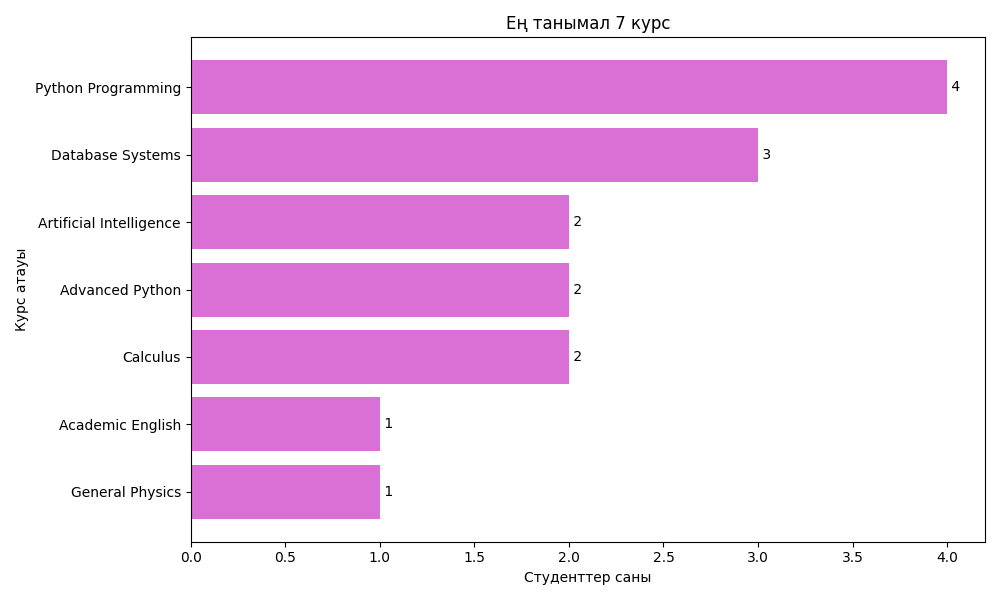
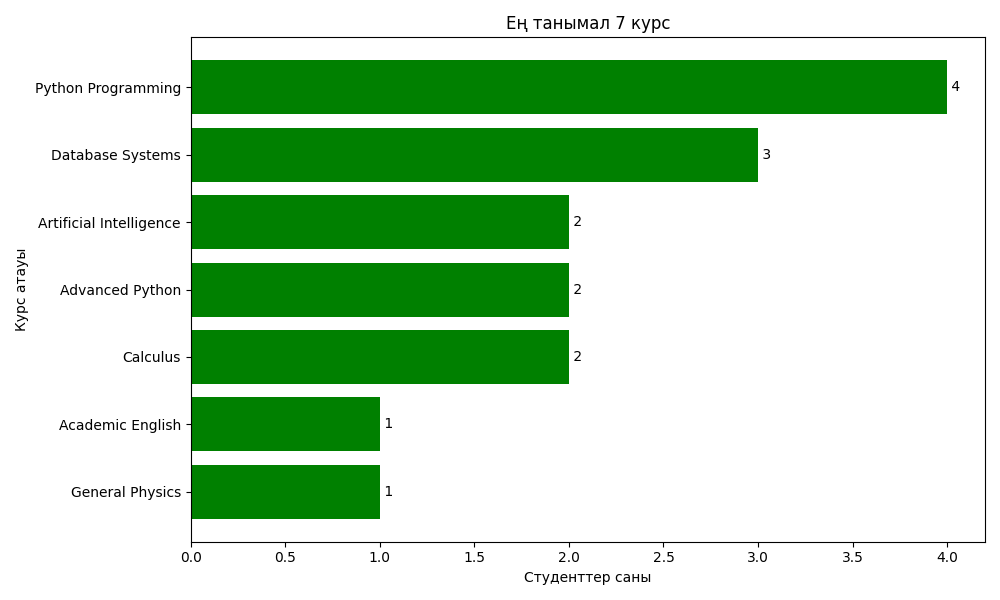
endterm

Changed region(s): [[0.186, 0.09, 0.961, 0.87]]

diff --git a/CourseVisualizer.py b/CourseVisualizer.py
@@ -13,7 +13,7 @@ class CourseVisualizer:
 
         plt.figure(figsize=(10, 6))
 
-        bars = plt.barh(top_7['title'], top_7['student_id'], color='orchid')
+        bars = plt.barh(top_7['title'], top_7['student_id'], color='green')
 
         plt.xlabel('Студенттер саны')
         plt.ylabel('Курс атауы')